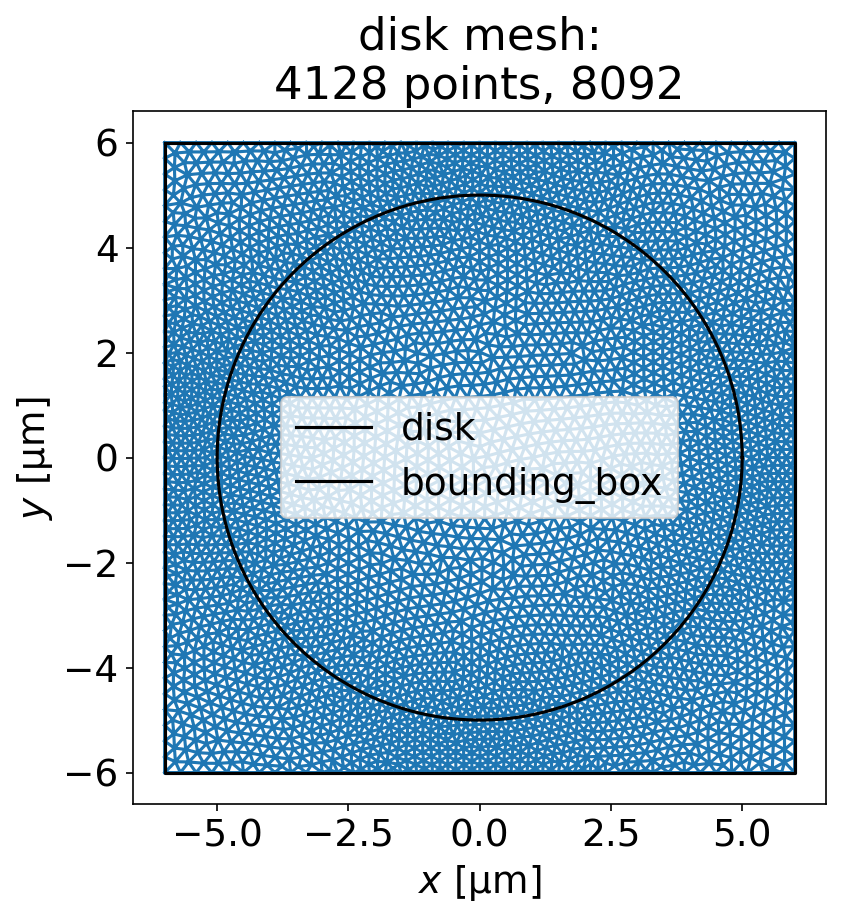
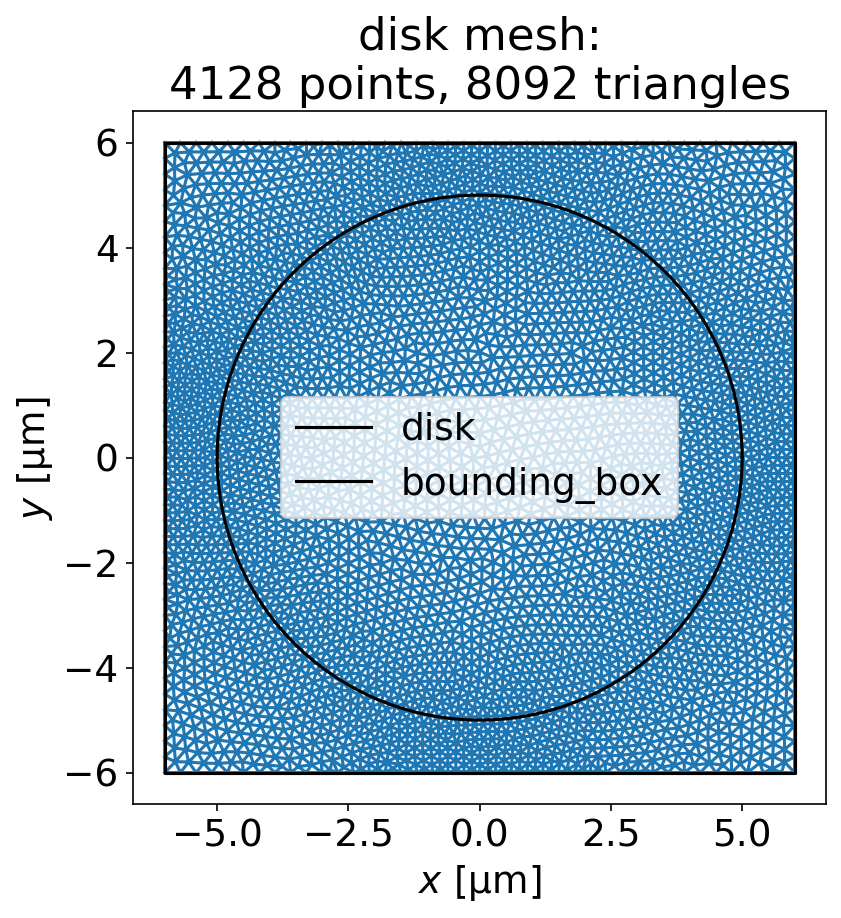
typo

Changed region(s): [[0.2164, 0.061, 0.9584, 0.122]]

diff --git a/examples/scripts/ring.py b/examples/scripts/ring.py
@@ -111,7 +111,7 @@ if __name__ == "__main__":
         ax = ring.plot_polygons(ax=ax, color="k")
         npoints = ring.points.shape[0]
         ntriangles = ring.triangles.shape[0]
-        ax.set_title(f"{ring.name} mesh:\n{npoints} points, {ntriangles}")
+        ax.set_title(f"{ring.name} mesh:\n{npoints} points, {ntriangles} triangles")
         ax.figure.savefig(
             os.path.join(imagedir, f"{ring.name}_mesh.png"),
             bbox_inches="tight",

diff --git a/examples/scripts/disk.py b/examples/scripts/disk.py
@@ -62,7 +62,7 @@ if __name__ == "__main__":
     ax = disk.plot_polygons(ax=ax, color="k")
     npoints = disk.points.shape[0]
     ntriangles = disk.triangles.shape[0]
-    ax.set_title(f"{disk.name} mesh:\n{npoints} points, {ntriangles}")
+    ax.set_title(f"{disk.name} mesh:\n{npoints} points, {ntriangles} triangles")
     ax.figure.savefig(
         os.path.join(imagedir, f"{disk.name}_mesh.png"),
         bbox_inches="tight",
